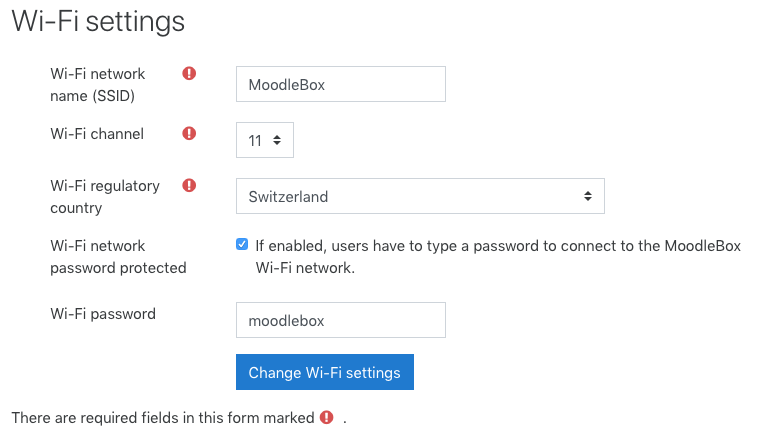
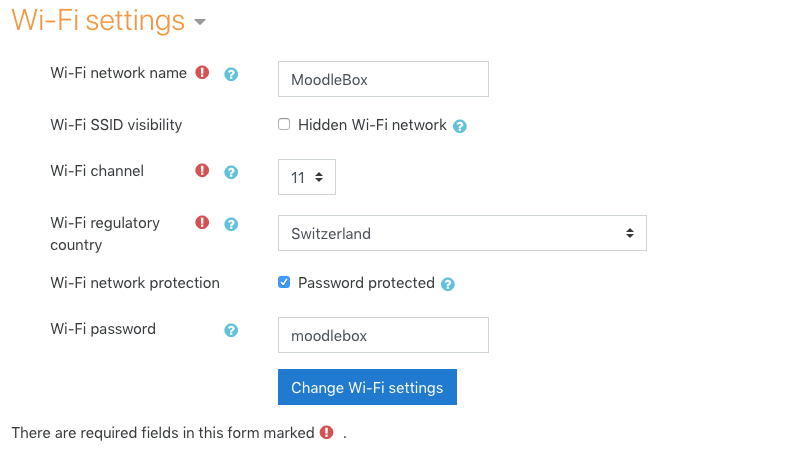
Documentation added for new hidden SSID feature
- See https://github.com/moodlebox/moodle-tool_moodlebox/issues/56.

diff --git a/content/fr/help/wi-fi-configuration.md b/content/fr/help/wi-fi-configuration.md
@@ -4,7 +4,7 @@ authors:
   - Nicolas Martignoni
 type: kb
 date: 2017-08-12
-lastmod: 2018-07-31
+lastmod: 2018-12-01
 description: Il est possible de modifier différents réglages du point d'accès WiFi de la MoodleBox.
 slug: modification-de-la-configuration-du-reseau-wi-fi
 weight: 6
@@ -15,11 +15,19 @@ categories:
 ---
 En tant qu'administrateur, il est possible de modifier différents réglages du point d'accès sans fils de la MoodleBox. Pour ce faire, visitez [Administration du site > Serveur > MoodleBox][1] dans le bloc d'administration.
 
-{{< figure link="/img/media/wifi-settings-fr.png" thumb="-small" caption="Réglages Wi-Fi" caption-position="bottom" caption-effect="appear" width="550px" >}}
+{{< figure link="/img/media/wifi-settings-fr.png" caption="Réglages Wi-Fi" caption-position="bottom" caption-effect="appear" width="800px" >}}
 
 ### Changer le nom du réseau Wi-Fi (SSID)
 
 Pour changer le nom du réseau (SSID), saisir un nouveau SSID dans le champ adéquat et cliquer sur le bouton __Changer les réglages Wi-Fi__. À partir de la version 2.3.0 de la MoodleBox, il est possible de choisir un SSID comportant des caractères spéciaux, tels que des emojis, et y compris des espaces.
+
+### Cacher le réseau Wi-Fi
+
+À partir de la version 2.6.0 de la MoodleBox, il est possible de cacher le réseau Wi-Fi de la MoodleBox en cochant la case __Réseau Wi-Fi caché__.
+
+{{% notice warning %}}
+Lorsque le réseau Wi-Fi est caché, il est difficile de savoir qu'une MoodleBox est active dans les environs. N'activez cette option que si vous êtes sûr de ce que vous faites, car les utilisateurs auront alors sans doute plus de peine à trouver la MoodleBox.
+{{% /notice %}}
 
 ### Changer le canal Wi-Fi du point d'accès
 
@@ -35,7 +43,7 @@ Les canaux Wi-Fi autorisés dépendent du pays de régulation. Suivant le pays c
 
 ### Retirer le mot de passe du réseau Wi-Fi ou le changer
 
-Pour permettre un accès simplifié au point d'accès sans fils de la MoodleBox, il est possible de permettre son accès sans mot de passe. Pour ce faire, décocher la case __Réseau Wi-Fi protégé par mot de passe__. Ce réglage peut être modifié en tout temps.
+Pour permettre un accès simplifié au point d'accès sans fils de la MoodleBox, il est possible de permettre son accès sans mot de passe. Pour ce faire, décocher la case __Protégé par mot de passe__. Ce réglage peut être modifié en tout temps.
 
 Il est également possible de modifier le mot de passe du point d'accès sans fils de la MoodleBox. Pour ce faire, saisir un nouveau mot de passe, composé d'au minimum 8 caractères et au maximum 63 caractères. Si le mot de passe choisi n'est pas valide, le mot de passe par défaut __moodlebox__ sera automatiquement remis.
 

diff --git a/content/de/help/wi-fi-configuration.md b/content/de/help/wi-fi-configuration.md
@@ -5,7 +5,7 @@ authors:
   - Ralf Krause
 type: kb
 date: 2017-08-12
-lastmod: 2018-07-31
+lastmod: 2018-12-01
 description: Es ist möglich, zahlreiche WiFi-Einstellungen des MoodleBox AccessPoint zu ändern.
 slug: wlan-einstellungen-aendern
 weight: 6
@@ -16,11 +16,20 @@ categories:
 ---
 Wenn Sie die MoodleBox einschalten, arbeitet die MoodleBox wie ein WLAN-AccessPoint. Als Administrator können Sie zahlreiche WLAN-Einstellungen ändern. Um dies zu tun, gehen Sie in den MoodleBox-Einstellungen auf [Website-Administration > Server > MoodleBox][1].
 
-{{< figure link="/img/media/wifi-settings-de.png" thumb="-small" caption="WLAN-Eistellungen" caption-position="bottom" caption-effect="appear" width="550px" >}}
+{{< figure link="/img/media/wifi-settings-de.png" caption="WLAN-Eistellungen" caption-position="bottom" caption-effect="appear" width="800px" >}}
 
 ### WLAN-Namen (SSID) ändern
 
 Sie können den WLAN-Namen (SSID) der MoodleBox ändern. Geben Sie einen neuen WLAN-Namen in das entsprechende Feld ein und tippen Sie auf die Taste __Einstellungen ändern__. Ab MoodleBox Version 2.3.0 ist es möglich, SSIDs mit Sonderzeichen wie Emojis, einschließlich Leerzeichen, einzugeben.
+
+### Hide the Wi-Fi network
+
+Ab MoodleBox Version 2.6.0 ist es möglich, das Wi-Fi-Netzwerk der MoodleBox auszublenden, indem Sie das Kontrollkästchen __Hidden Wi-Fi Network__ aktivieren.
+
+{{% notice warning %}}
+Wenn das Wi-Fi-Netzwerk ausgeblendet ist, ist es schwierig zu wissen, dass eine MoodleBox in diesem Umfeld aktiv ist. Aktivieren Sie diese Option nur, wenn Sie sich sicher sind, was Sie tun, da Benutzer wahrscheinlich mehr Probleme haben werden, die MoodleBox zu finden.
+{{% /notice %}}
+
 
 ### WLAN-Kanal ändern
 

diff --git a/content/en/help/wi-fi-configuration.md b/content/en/help/wi-fi-configuration.md
@@ -4,7 +4,7 @@ authors:
   - Nicolas Martignoni
 type: kb
 date: 2017-08-12
-lastmod: 2018-07-31
+lastmod: 2018-12-01
 description: It is possible to change several settings of the access point WiFi settings of the MoodleBox.
 slug: updating-wi-fi-network-configuration
 weight: 6
@@ -15,11 +15,19 @@ categories:
 ---
 As an administrator, you may change several settings of the access point Wi-Fi settings of the MoodleBox. To do this, visit the MoodleBox dashboard at [Site administration > Server > MoodleBox][1] in the administration interface.
 
-{{< figure link="/img/media/wifi-settings-en.png" thumb="-small" caption="Wi-Fi Settings" caption-position="bottom" caption-effect="appear" width="550px" >}}
+{{< figure link="/img/media/wifi-settings-en.png" caption="Wi-Fi Settings" caption-position="bottom" caption-effect="appear" width="800px" >}}
 
 ### Change Wi-Fi network name (SSID)
 
 You may change the network name (SSID). Type in a new SSID in the adequate field and click the button __Change Wi-Fi settings__. Starting with MoodleBox version 2.3.0, it is possible to enter SSIDs with specials characters such as emojis, including spaces.
+
+### Hide the Wi-Fi network
+
+Starting with MoodleBox version 2.6.0, it is possible to hide the MoodleBox's Wi-Fi network by checking the __Hidden Wi-Fi Network__ box.
+
+{{% notice warning %}}
+When the Wi-Fi network is hidden, it is difficult to know that a MoodleBox is active in the area. Only enable this option if you are sure of what you are doing, as users will probably have more trouble finding the MoodleBox.
+{{% /notice %}}
 
 ### Change Wi-Fi access point channel
 
